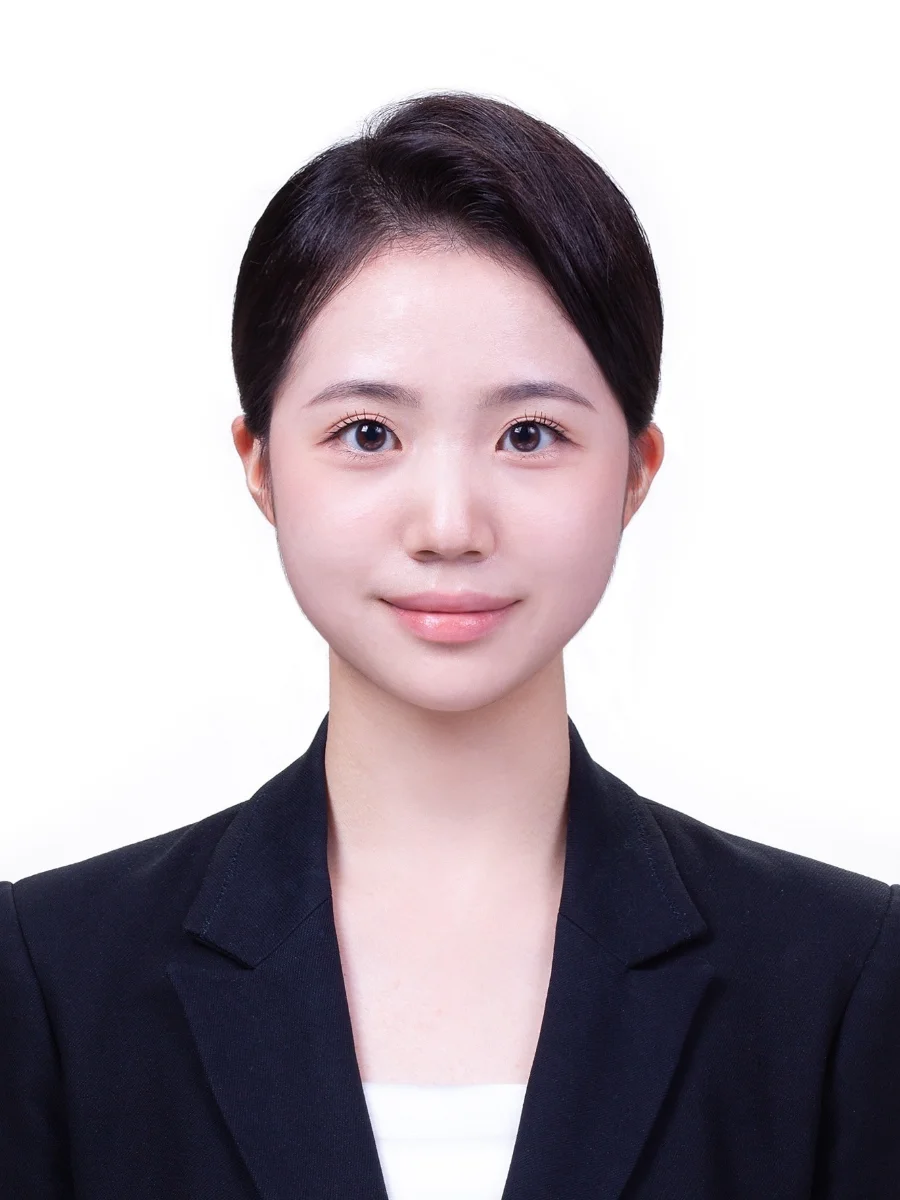
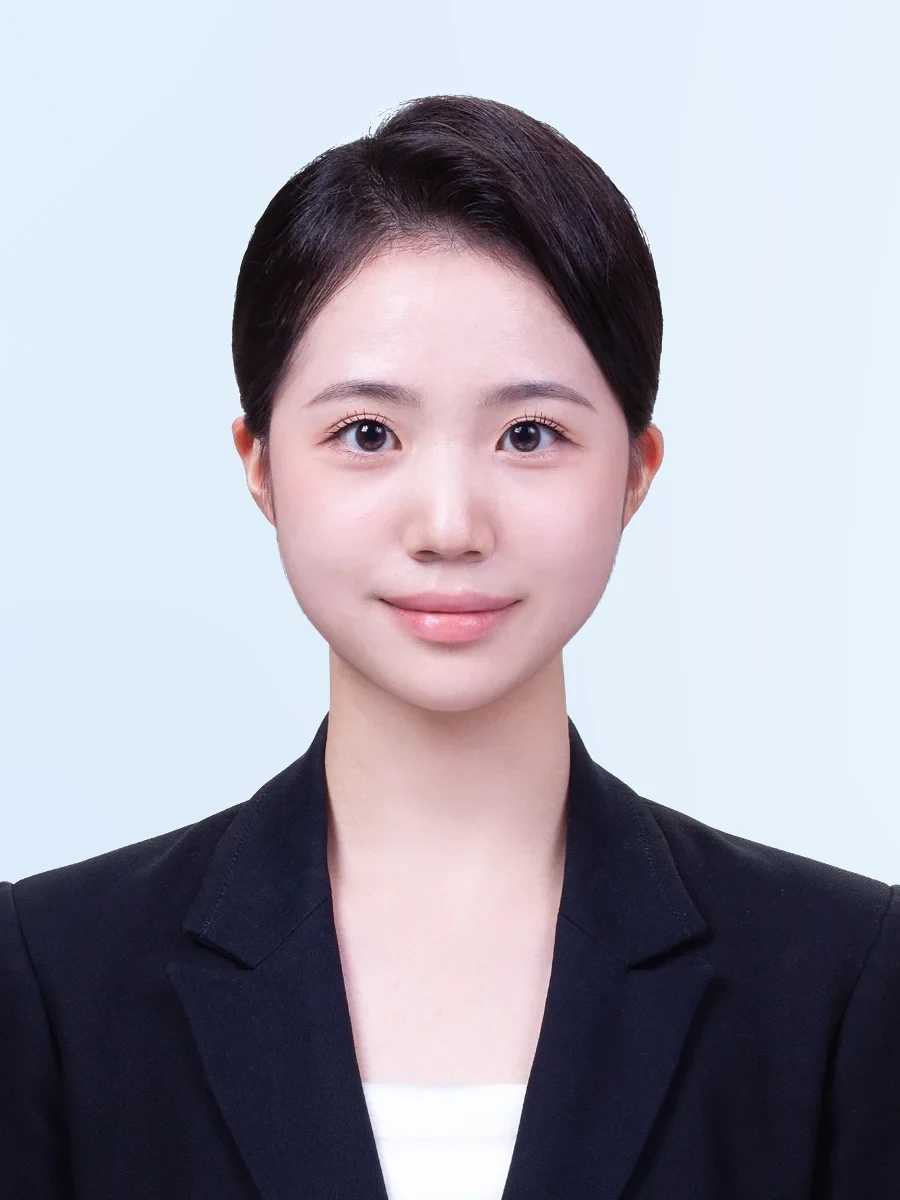
임원진 사진 배경 통일, 명단 기수 한 칸 밀림 수정, VALLEY AI 링크 위치 변경
- 부회장·팀장·운용팀장 사진 6장의 배경을 회장 사진 배경(연한 하늘색)으로 합성
- ROSTER·COHORTS는 키가 기수 그대로인데(42 = 42기) 화면에서 +1 해서 한 기수씩
  밀려 보이던 문제 수정 (예: 김우주 42기가 43기로 표시). 43기 명단은 데이터에
  없어 기본 선택을 42기로
- 상단 메뉴의 VALLEY AI를 빼고 Agora 화면 오른쪽 위에 작은 링크로 둠

Claude-Session: https://claude.ai/code/session_011HmbgyEfxzvdSt5AhFhpfg

diff --git a/index.html b/index.html
@@ -1965,6 +1965,7 @@ textarea.intra-input{font-family:inherit;line-height:1.6}
         <div style="display:flex;align-items:center;gap:18px;font-size:13px;color:rgba(26,26,26,0.65)">
           <span>{{ intraUser }}</span>
           <a href="#" onClick="{{ editMe }}" style="font-size:12px;color:rgba(247,246,243,0.6)">변경</a>
+          <a href="/valley/" title="리포트 PDF를 밸리용 이미지로 잘라 주는 도구" style="font-size:11px;font-weight:600;letter-spacing:0.12em;color:rgba(247,246,243,0.6);text-decoration:none">VALLEY AI ↗</a>
           <a href="{{ cafeUrl }}" target="_blank" rel="noopener" class="btn btn-outline" style="padding:9px 14px;font-size:11px">CAFE</a>
           <a href="#home" onClick="{{ intraLogout }}" class="btn btn-solid" style="padding:9px 14px;font-size:11px">LOGOUT</a>
         </div>
@@ -3445,7 +3446,7 @@ const ring = (segs, r) => {
 const opStyle = (op) => op === 'BUY' ? { c:'#203864', a:'1' } : op === 'SELL' ? { c:'#1A1A1A', a:'0.65' } : { c:'#1A1A1A', a:'1' };
 
 class Component extends DCLogic {
-  state = { posts:[], agoraLoaded:false, pTitle:'', pBody:'', posting:false, navMode:'dark', activeSec:'about-values', page:'home', reportId:'trmd', fSector:'All sectors', fOp:'All ratings', fYear:'All terms', fRegion:'All regions', q:'', page1:1, sortKey:'date', sortDir:-1, faqOpen:-1, menuOpen:false, pastHero:false, counted:false, hoverSlice:null, drawn:false, boot:'in', heroIdx:0, heroFade:false, email:'', notified:false, cohort:'43기', user:null, intraTab:'dashboard', intraQ:'', intraCohort:43, intraData:null, dirQ:'', dirInd:'전체', dirCoffee:false, coffeeFor:null, coffeeSent:false, cName:'', cCohort:'', cMsg:'', isMobile: typeof window !== 'undefined' && window.innerWidth <= 768 };
+  state = { posts:[], agoraLoaded:false, pTitle:'', pBody:'', posting:false, navMode:'dark', activeSec:'about-values', page:'home', reportId:'trmd', fSector:'All sectors', fOp:'All ratings', fYear:'All terms', fRegion:'All regions', q:'', page1:1, sortKey:'date', sortDir:-1, faqOpen:-1, menuOpen:false, pastHero:false, counted:false, hoverSlice:null, drawn:false, boot:'in', heroIdx:0, heroFade:false, email:'', notified:false, cohort:'42기', user:null, intraTab:'dashboard', intraQ:'', intraCohort:42, intraData:null, dirQ:'', dirInd:'전체', dirCoffee:false, coffeeFor:null, coffeeSent:false, cName:'', cCohort:'', cMsg:'', isMobile: typeof window !== 'undefined' && window.innerWidth <= 768 };
 
   prefetchHero() {
     if (this._pf) return;
@@ -3850,8 +3851,8 @@ class Component extends DCLogic {
     const related = REPORTS.filter((r) => r.sector === active.sector && r.id !== active.id).slice(0, 3).map(vm);
     const isPh = !active.summary;
     const opc = opStyle(active.op);
-    // 세 번째 값이 있으면 별도 페이지로 이동하는 링크 (Valley AI = /valley/ 변환기)
-    const navDefs = [['RESEARCH','research'], ['ABOUT','about'], ['PEOPLE','people'], ['RECRUITING','recruit'], ['VALLEY AI','valley','/valley/'], ['AGORA','intranet']];
+    // 세 번째 값이 있으면 별도 페이지로 이동하는 링크
+    const navDefs = [['RESEARCH','research'], ['ABOUT','about'], ['PEOPLE','people'], ['RECRUITING','recruit'], ['AGORA','intranet']];
     const navActive = s.page === 'report' ? 'research'
       : s.page === 'activity' ? 'about' : s.page;
     const navItems = navDefs.map(([label, page, url]) => ({
@@ -3888,9 +3889,10 @@ class Component extends DCLogic {
 
     const iq = (s.intraQ || '').trim();
     const allNames = [];
-    Object.keys(ROSTER).forEach((k) => ROSTER[k].forEach((n) => allNames.push({ name: n, cohort: (parseInt(k, 10) + 1) + '기' })));
+    Object.keys(ROSTER).forEach((k) => ROSTER[k].forEach((n) => allNames.push({ name: n, cohort: parseInt(k, 10) + '기' })));
     const alumniHits = iq ? allNames.filter((p) => p.name.indexOf(iq) >= 0).slice(0, 60) : [];
-    const cohortNums = Object.keys(ROSTER).map((k) => parseInt(k, 10) + 1).sort((a, b) => b - a);
+    // ROSTER·COHORTS의 키는 기수 그대로다 (42 = 42기)
+    const cohortNums = Object.keys(ROSTER).map((k) => parseInt(k, 10)).sort((a, b) => b - a);
     const intraTitle = tab === 'dashboard' ? 'R.F.S. Network' : tab === 'board' ? '게시판' : tab === 'fund' ? 'RFS 펀드' : tab === 'schedule' ? '이번 학기 일정' : tab === 'ask' ? 'Ask' : tab === 'directory' ? '알럼나이 디렉토리' : 'Intranet';
     return {
       isIntranet: s.page === 'intranet', intraLocked: s.page === 'intranet' && !authed, intraOpen: s.page === 'intranet' && authed,
@@ -4014,8 +4016,8 @@ class Component extends DCLogic {
 
       intraOfficers: ID.OFFICERS,
       intraCohorts: cohortNums.map((n) => ({ label: n + '기', on: (e) => { e.preventDefault(); this.setState({ intraCohort: n }); }, bg: s.intraCohort === n ? '#203864' : 'transparent', color: s.intraCohort === n ? '#F7F6F3' : 'rgba(26,26,26,0.65)' })),
-      intraCohortLabel: s.intraCohort + '기', intraCohortCount: (ROSTER[s.intraCohort - 1] || []).length + '명',
-      intraCohortNames: (ROSTER[s.intraCohort - 1] || []).map((n) => ({ name: n })),
+      intraCohortLabel: s.intraCohort + '기', intraCohortCount: (ROSTER[s.intraCohort] || []).length + '명',
+      intraCohortNames: (ROSTER[s.intraCohort] || []).map((n) => ({ name: n })),
       intraQ: s.intraQ, onIntraQ: (e) => this.setState({ intraQ: e.target.value }),
       alumniHits, hasAlumniHits: alumniHits.length > 0, noAlumniHits: !!iq && alumniHits.length === 0, alumniHitCount: alumniHits.length + '명',
       alumniTotal: allNames.length + '명',
@@ -4124,11 +4126,11 @@ class Component extends DCLogic {
       q: s.q, onQuery: (e) => this.setState({ q: e.target.value, page1: 1 }),
       gridReports: byDate.filter((r) => !q || (r.name + ' ' + r.ticker + ' ' + r.sector + ' ' + r.headline).toLowerCase().includes(q)).map(cardVm),
       prevReport: prevNext.prev, nextReport: prevNext.next, hasPrev: !!prevNext.prev, hasNext: !!prevNext.next,
-      cohortCount: (ROSTER[parseInt(s.cohort, 10) - 1] || []).length + '명',
-      cohortNames: (ROSTER[parseInt(s.cohort, 10) - 1] || []).join(' · '),
+      cohortCount: (ROSTER[parseInt(s.cohort, 10)] || []).length + '명',
+      cohortNames: (ROSTER[parseInt(s.cohort, 10)] || []).join(' · '),
       cohorts: cohortDefs.map((c) => {
         const n = parseInt(c, 10);
-        return { label: c, cls: s.cohort === c ? 'on' : '', count: (COHORTS[n - 1] || 0) + '명',
+        return { label: c, cls: s.cohort === c ? 'on' : '', count: (COHORTS[n] || 0) + '명',
           color: s.cohort === c ? '#F7F6F3' : 'rgba(26,26,26,0.65)',
           bg: s.cohort === c ? '#203864' : 'transparent',
           weight: s.cohort === c ? '700' : '400',
